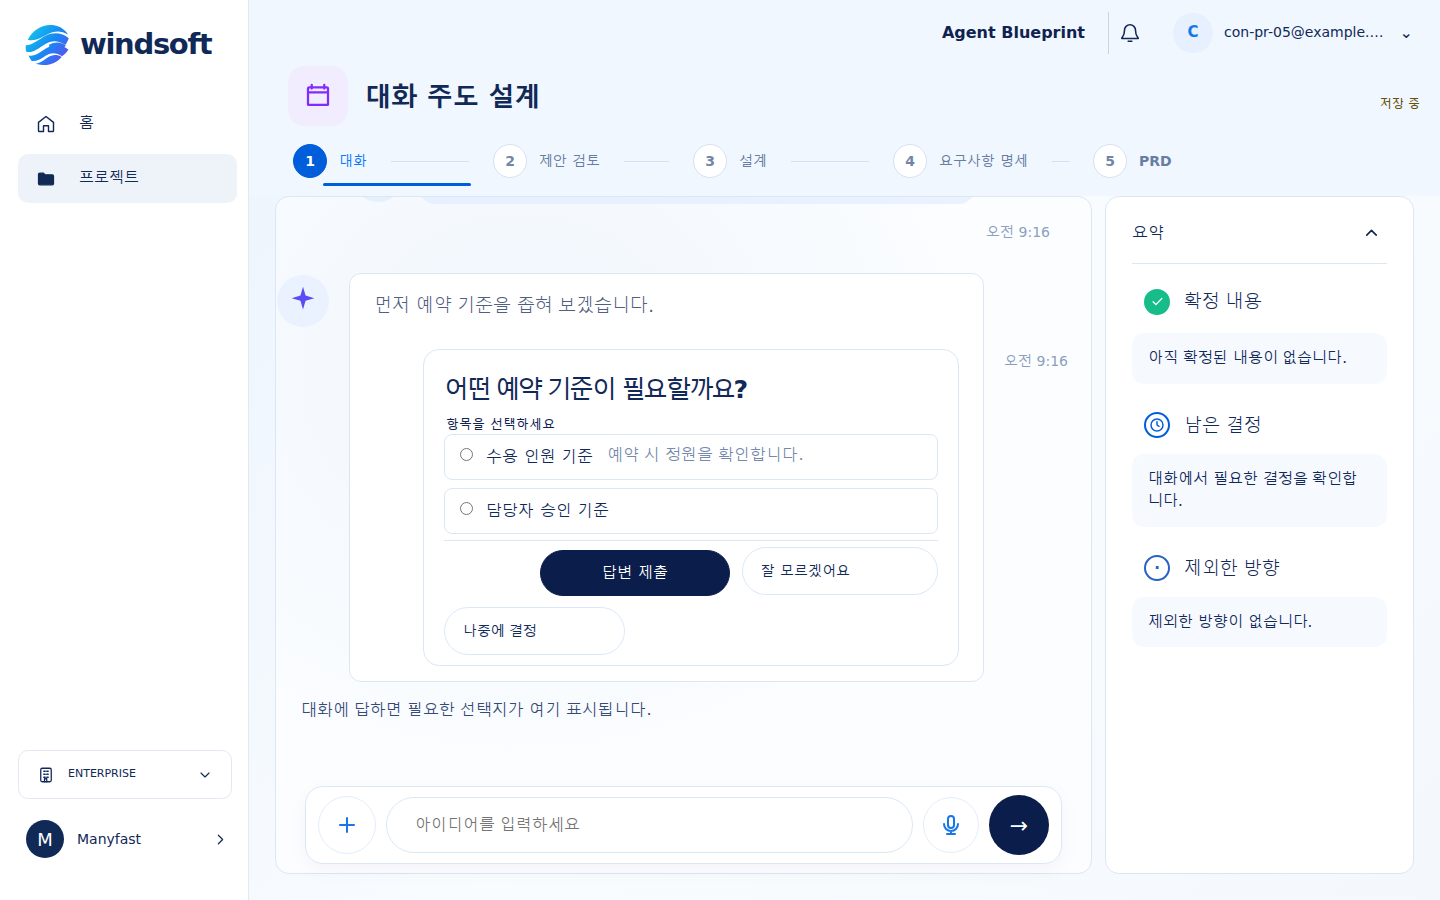
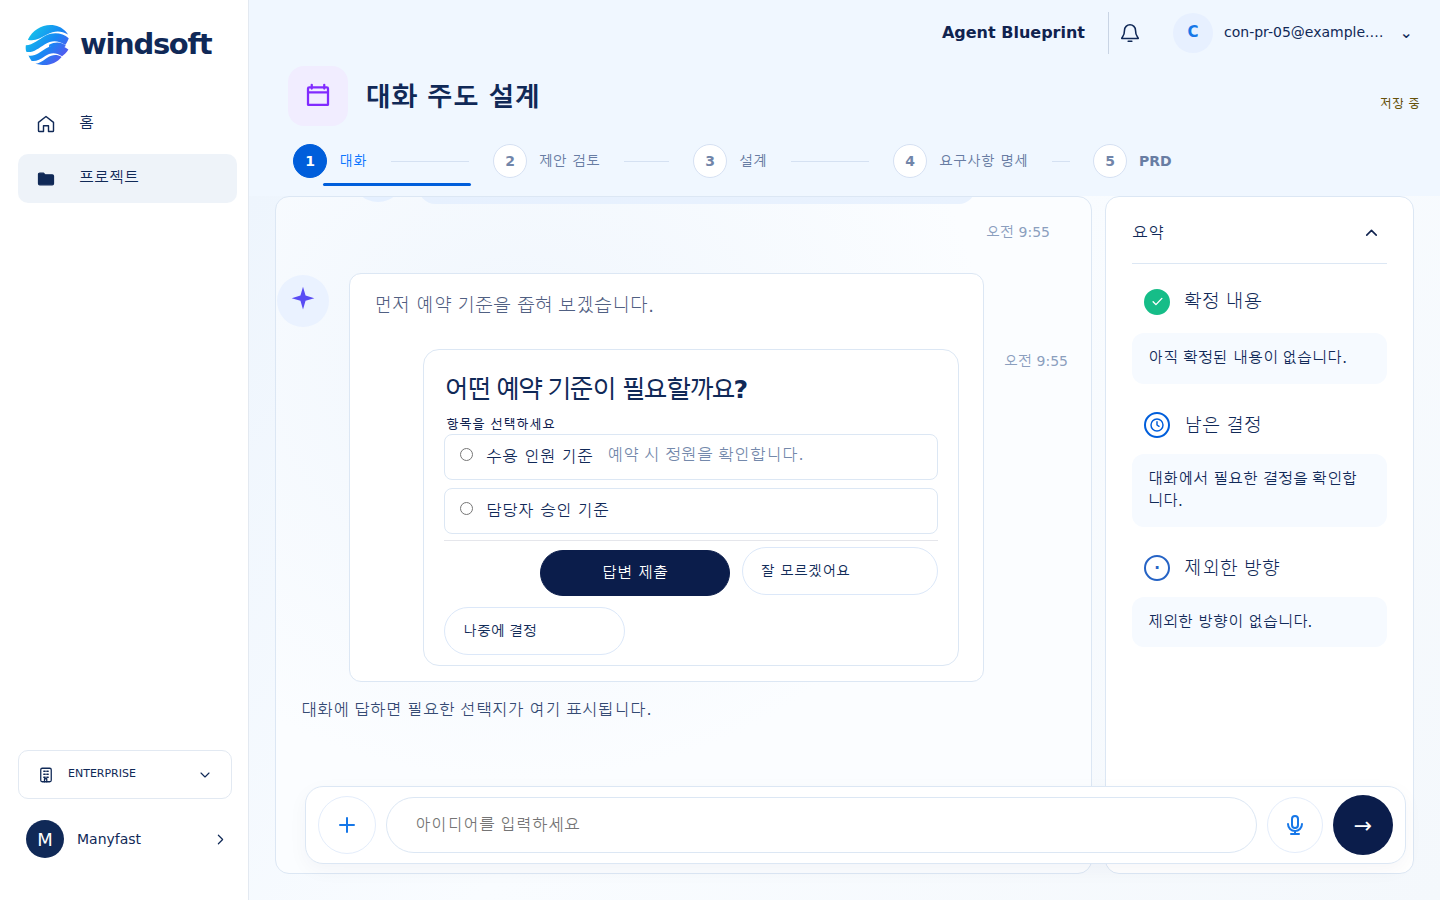
Match conversation composer to canvas layout

Changed region(s): [[0.6562, 0.8711, 0.7812, 0.9644], [0.875, 0.8711, 0.9688, 0.9644]]

diff --git a/tests/e2e/con-pr-05-conversation-flow.spec.ts b/tests/e2e/con-pr-05-conversation-flow.spec.ts
@@ -82,6 +82,17 @@ test('free conversation, generated choice, eleven grounded candidates, approval 
   await expect(question).toBeVisible();
   await expect(page.locator('.ai-turn-cancel')).toBeHidden();
   const contextualCard=page.locator('.contextual-question-card').last();
+  if(testInfo.project.name==='desktop-chromium'){
+    const composerGeometry=await page.evaluate(()=>{
+      const composer=document.querySelector('.ai-turn-composer')!.getBoundingClientRect();
+      const summary=document.querySelector('.conversation-stage-inspector')!.getBoundingClientRect();
+      return {left:composer.left,right:composer.right,viewportWidth:window.innerWidth,summaryLeft:summary.left,summaryRight:summary.right};
+    });
+    expect(composerGeometry.right).toBeGreaterThanOrEqual(composerGeometry.viewportWidth-40);
+    expect(composerGeometry.right).toBeLessThanOrEqual(composerGeometry.viewportWidth-28);
+    expect(composerGeometry.right).toBeGreaterThanOrEqual(composerGeometry.summaryRight-20);
+    expect(composerGeometry.left).toBeLessThan(composerGeometry.summaryLeft);
+  }
   if(testInfo.project.name==='mobile-chromium'){
     await expect.poll(()=>contextualCard.evaluate((element)=>element.getBoundingClientRect().width)).toBeGreaterThan(250);
     const actionAndComposer=await page.evaluate(()=>({action:document.querySelector('.contextual-question-card .question-card-submit')?.getBoundingClientRect().bottom??0,composer:document.querySelector('.ai-turn-composer')?.getBoundingClientRect().top??0,scrollWidth:document.documentElement.scrollWidth,viewport:window.innerWidth,textareaHeight:document.querySelector<HTMLTextAreaElement>('.ai-turn-composer textarea')?.scrollHeight??0,textareaClientHeight:document.querySelector<HTMLTextAreaElement>('.ai-turn-composer textarea')?.clientHeight??0}));

diff --git a/src/styles/workspace-shell.css b/src/styles/workspace-shell.css
@@ -397,7 +397,7 @@ html:has(.workspace-shell), body:has(.workspace-shell), body:has(.workspace-shel
 }
 
 .workspace-panels[data-stage="conversation"] .workspace-next-hint { position: absolute; width: 1px; height: 1px; overflow: hidden; clip: rect(0,0,0,0); white-space: nowrap; }
-.workspace-panels[data-stage="conversation"] .ai-turn-composer { position: fixed; right: calc(309px + 13px + 26px + 30px); bottom: 10px; left: 279px; display: flex; align-items: center; gap: 10px; margin: 0; padding: 8px 12px; border: 1px solid var(--color-border); border-radius: 18px; background: var(--color-surface); box-shadow: var(--shadow-sm); }
+.workspace-panels[data-stage="conversation"] .ai-turn-composer { position: fixed; right: 34px; bottom: 10px; left: 279px; display: flex; align-items: center; gap: 10px; margin: 0; padding: 8px 12px; border: 1px solid var(--color-border); border-radius: 18px; background: var(--color-surface); box-shadow: var(--shadow-sm); }
 .workspace-panels[data-stage="conversation"] .ai-turn-composer > label { position: absolute; width: 1px; height: 1px; overflow: hidden; clip: rect(0,0,0,0); white-space: nowrap; }
 .workspace-panels[data-stage="conversation"] .ai-turn-composer textarea { min-height: 46px; height: 46px; flex: 1; resize: none; }
 .workspace-panels[data-stage="conversation"] .ai-turn-composer textarea { min-width: 0; white-space: nowrap; overflow: hidden; text-overflow: ellipsis; }

diff --git a/src/infrastructure/ai/conversation-turn-contract.js b/src/infrastructure/ai/conversation-turn-contract.js
@@ -13,7 +13,7 @@ const unsafeCopy = (text) => {
   const copy = String(text ?? '');
   const containsMarkupOrExecutableUrl = /<\/?[a-z][^>]*>|javascript:|data:text\/html/i.test(copy);
   const containsCodeFence = /(?:^|\n)\s*(?:```|~~~)/.test(copy);
-  const containsBareCode = /(?:^|\n)\s*(?:#!|(?:const|let|var)\s+[\w$]+\s*=|(?:async\s+)?function\s+[\w$]*\s*\(|return\s+[^.!?;\n]+;|import\s+(?:['"]|.*\sfrom\s+['"])|export\s+(?:default\s+)?(?:const|let|var|function|class)\b|(?:fetch|eval|alert|console\.(?:log|warn|error))\s*\(|(?:curl|wget)\s+\S+.*(?:\||&&|;)|(?:node|python|bash|sh)\s+-(?:e|c)\b|(?:npm|pnpm|yarn)\s+(?:install|add|exec|run)\b|(?:sudo\s+|rm\s+-rf\b))/im.test(copy);
+  const containsBareCode = /(?:^|\n)\s*(?:#!|(?:const|let|var)\s+[\w$]+\s*=|(?:async\s+)?function\s+[\w$]*\s*\(|(?:async\s+)?def\s+[\w]+\s*\([^)]*\)\s*:|class\s+[\w]+(?:\s*\([^)]*\))?\s*:|print\s*\(|return\s+[^.!?;\n]+;|import\s+(?:['"]|.*\sfrom\s+['"])|export\s+(?:default\s+)?(?:const|let|var|function|class)\b|(?:fetch|eval|alert|console\.(?:log|warn|error))\s*\(|(?:curl|wget)\s+\S+.*(?:\||&&|;)|(?:node|python|bash|sh)\s+-(?:e|c)\b|(?:npm|pnpm|yarn)\s+(?:install|add|exec|run)\b|(?:sudo\s+|rm\s+-rf\b))/im.test(copy);
   return containsMarkupOrExecutableUrl || containsCodeFence || containsBareCode;
 };
 const containsUnsafeCopy = (value) => {

diff --git a/tests/contract/con-pr-05-turn-contract.test.js b/tests/contract/con-pr-05-turn-contract.test.js
@@ -108,4 +108,9 @@ test('turn contract rejects nested fenced and recognizable bare code without rej
   assert.equal(validateTurnAnalyzeV3(unsafeRecommendations, { text: '추천해 주세요. 회의실 예약 충돌을 줄이고 싶어요.' }).valid, true);
   recommendations[3].proposal.after.description = 'Return to the booking page to review the remaining seats.';
   assert.equal(validateTurnAnalyzeV3(unsafeRecommendations, { text: '추천해 주세요. 회의실 예약 충돌을 줄이고 싶어요.' }).valid, true);
+
+  for (const code of ['print("hello")', 'def main():\n  print("hello")']) {
+    const unsafeProposal = { ...validPayload, proposals: [{ operation: 'create', targetType: 'design_item', after: { type: 'requirement', title: '예약 정책', description: code }, rationale: '예약 충돌을 줄이는 제안입니다.', evidence: [], affectedItemIds: [] }] };
+    assert.equal(validateTurnAnalyzeV3(unsafeProposal, { text: '예약 정책을 정리해 주세요.' }).valid, false);
+  }
 });

diff --git a/docs/tasks/CON-PR-05/test-results.md b/docs/tasks/CON-PR-05/test-results.md
@@ -12,9 +12,9 @@ Base: `df54aafa654142f11348321754c749588a2fbf9a` (merged CON-PR-04, PR #63).
 | `npm run build` | Passed; Vite emitted the existing >500 kB chunk-size warning |
 | `git diff --check` | Passed |
 
-The browser suite uses deterministic API responses and the existing test-session fixture. It covers freeform input, generated contextual follow-up, 11 grounded recommendations with visible evidence and source navigation, insufficient recommendation context without padded candidates, pending proposal and explicit approval, aggregate summary/source navigation, the mobile summary dialog, refresh persistence, typed number/range/rank controls, Requirements ready, and a persisted same-revision PRD `review_required` draft after route reload. An injected storage failure verifies that the user turn is persisted before request dispatch, the assistant response is persisted before it appears as successful, and retry keeps the input and request identity. Compacted-history tests verify that an original source turn can be revealed in a separate panel and that an unavailable source has a non-actionable fallback. Google OAuth is outside the requested browser scope. These fixtures verify the application flow, not live provider output.
+The browser suite uses deterministic API responses and the existing test-session fixture. It covers freeform input, generated contextual follow-up, 11 grounded recommendations with visible evidence and source navigation, insufficient recommendation context without padded candidates, pending proposal and explicit approval, aggregate summary/source navigation, the mobile summary dialog, refresh persistence, typed number/range/rank controls, Requirements ready, and a persisted same-revision PRD `review_required` draft after route reload. An injected storage failure verifies that the user turn is persisted before request dispatch, the assistant response is persisted before it appears as successful, and retry keeps the input and request identity. Compacted-history tests verify that an original source turn can be revealed in a separate panel and that an unavailable source has a non-actionable fallback. A desktop geometry assertion verifies the fixed composer extends below the right summary column to within 34px of the viewport edge; tablet and mobile offsets remain unchanged. Google OAuth is outside the requested browser scope. These fixtures verify the application flow, not live provider output.
 
-The contract validation recursively rejects unsafe markup and executable text nested in proposal and recommendation fields. Recommendation cards display their evidence excerpt and provenance; message evidence provides a keyboard-accessible navigation action to its source turn.
+The contract validation recursively rejects unsafe markup, executable text, fenced code and recognizable bare code in proposal and recommendation fields while allowing ordinary prose. Recommendation cards display their evidence excerpt and provenance; message evidence provides a keyboard-accessible navigation action to its source turn.
 
 ## Full-suite result
 

diff --git a/docs/delivery/evidence/CON-PR-05/README.md b/docs/delivery/evidence/CON-PR-05/README.md
@@ -31,4 +31,14 @@ The primary visual reference is [`회의실 예약 서비스 UI 캔버스.png`](
 
 ## Comparison record
 
-The rendered hierarchy retains the approved conversation canvas: stage navigation above a conversation-first workspace, contextual cards inside the conversation, a fixed composer, and a right-side aggregate summary on desktop. Recommendation cards now include source excerpts and an accessible action to move to the cited conversation turn. Mobile keeps the conversation first and opens the same summary in a keyboard-accessible dialog. The independent QA report will record matched source/render anchor measurements and any material exceptions against the reference.
+The rendered hierarchy retains the approved conversation canvas: stage navigation above a conversation-first workspace, contextual cards inside the conversation, a fixed composer, and a right-side aggregate summary on desktop. Recommendation cards now include source excerpts and an accessible action to move to the cited conversation turn. Mobile keeps the conversation first and opens the same summary in a keyboard-accessible dialog.
+
+### Matched canvas comparison
+
+- Reference: [`회의실 예약 서비스 UI 캔버스.png`](../../../blueprint-design/회의실%20예약%20서비스%20UI%20캔버스.png)
+- Render: [desktop-canvas contextual follow-up](./desktop-canvas-contextual-question.png)
+- Route/state: `/blueprints/con-pr-05-conversation-flow`, contextual follow-up card
+- CSS viewport: 1672×941 for both images; render uses deterministic API/session fixtures
+- Anchor measurements (approximate): left rail ends at x=249 in both; conversation stage begins at y=196 in both; summary is x=1338–1646 in the reference and x=1337–1646 in the render (-1px left, same right edge). Composer is x=278–1638 in the reference and x=305–1638 in the render (+27px left, -27px width; 2.0% of reference width), with the same 34px right margin. Its bottom is approximately 36px from the render viewport edge versus 11px in the reference (25px vertical offset, 2.7% of viewport height).
+- Exception: the 27px composer left/width difference follows the current conversation panel's 26px inner gutter. The composer still spans beneath the summary column and the measured horizontal/vertical deltas stay below the repository's 5% position and 10% size thresholds.
+- Evidence SHA: the PR description records the exact reviewed source commit for this captured render; documentation-only changes may follow without changing the rendered application.
